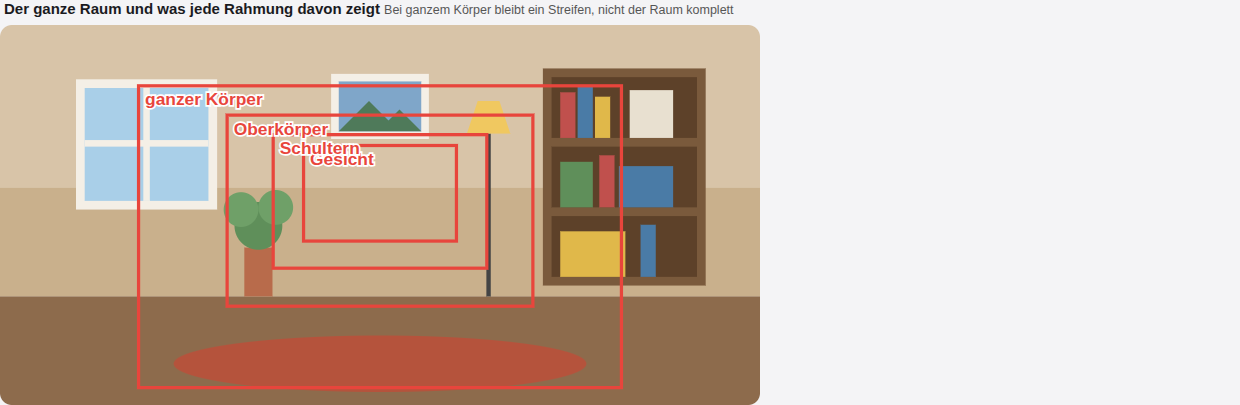
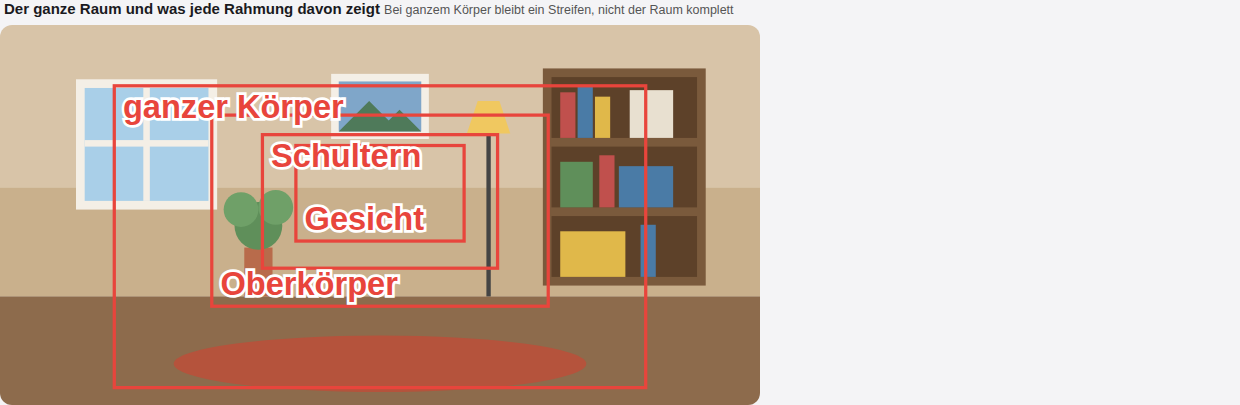
Make the whole-room picture legible and let the mockup tabs wrap
The cutout boxes use the tile's measured aspect, the four labels no longer overlap, the tab row wraps at 390 px, and the eye height is marked as the mockup model's value.

Changed region(s): [[0.0919, 0.2074, 0.4597, 0.9778], [0.4903, 0.2074, 0.521, 0.9778]]

diff --git a/docs/mockups/agent-tile-figure/agent-tile-figure.html b/docs/mockups/agent-tile-figure/agent-tile-figure.html
@@ -893,6 +893,7 @@ body {
 }
 .tabs {
 	display: flex;
+	flex-wrap: wrap;
 	gap: 4px;
 }
 .read {
@@ -1411,6 +1412,7 @@ var eh = { aa: [800, 1200, 2600], ih: [300, 2300, 3e3], ou: [330, 800, 2500], ee
   },
   // Sichtbare Höhe (m) auf Höhe der Raumwand: Bildhöhe an der Figur plus die Kegelaufweitung über 1,5 m Abstand zur Wand bei 22 Grad.
   WALL_SPREAD = 0.58,
+  // Augenhöhe und Fußgrenze (Augenhöhe + 0,05) sind die des Mockup-Modells (pixivs Beispielmodell), kein Produktwert.
   EYE_HEIGHT = 1.45,
   ih = class {
     constructor(e, t = {}) {
@@ -1922,12 +1924,17 @@ function fgrid(i, entries, bare = !1) {
   });
 }
 function drawWhole() {
-  let box = ["face", "shoulders", "upper", "full"].map((n) => {
+  let vid = [...document.querySelectorAll("#roomGrid .vid")].sort((a, b) => b.clientHeight - a.clientHeight)[0],
+    aspect = vid && vid.clientHeight ? vid.clientWidth / vid.clientHeight : 1.6,
+    box = ["face", "shoulders", "upper", "full"].map((n, i) => {
       let { r, o } = FR[n],
         feet = EYE_HEIGHT + 0.05,
         h = r + Math.min(o, feet) + WALL_SPREAD,
-        y = 300 - (EYE_HEIGHT + (r - Math.min(o, feet)) / 2) * 100;
-      return `<rect x="${350 - h * 80}" y="${y - h * 50}" width="${h * 160}" height="${h * 100}" fill="none" stroke="#e8453c" stroke-width="3"/><text x="${350 - h * 80 + 6}" y="${y - h * 50 + 18}" font-size="16" font-weight="700" fill="#e8453c" stroke="#fff" stroke-width="3" paint-order="stroke">${FRAMES.find((f) => f[0] === n)[1]}</text>`;
+        y = 300 - (EYE_HEIGHT + (r - Math.min(o, feet)) / 2) * 100,
+        w = h * 100 * aspect,
+        atTop = i % 2 === 1,
+        label = `<text x="${350 - w / 2 + 8}" y="${atTop ? y - h * 50 + 30 : y + h * 50 - 10}" font-size="30" font-weight="700" fill="#e8453c" stroke="#fff" stroke-width="5" paint-order="stroke">${FRAMES.find((f) => f[0] === n)[1]}</text>`;
+      return `<rect x="${350 - w / 2}" y="${y - h * 50}" width="${w}" height="${h * 100}" fill="none" stroke="#e8453c" stroke-width="3"/>${label}`;
     }).join("");
   Rt("#roomWhole").innerHTML = ROOMS.salon.replace(/^<svg[^>]*>|<\/svg>$/g, "") + box;
 }
